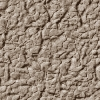
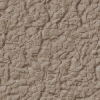
добавил лес ¯\_(ツ)_/¯

Changed region(s): [[0.0, 0.0, 1.0, 1.0], [0.0, 0.0, 0.03, 0.06], [0.36, 0.72, 0.39, 0.75]]

diff --git a/src/static/field/js/Map/CreateMap.js b/src/static/field/js/Map/CreateMap.js
@@ -18,15 +18,19 @@ function CreateMap() {
                 var object;
 
                 if (game.map.OneLayerMap[x][y].texture_object === "terrain_1") {
-                    object = gameObjectCreate(x, y, game.map.OneLayerMap[x][y].texture_object, -0.33, 0.70, 45);
+                    object = gameObjectCreate(x, y, game.map.OneLayerMap[x][y].texture_object, 0, 0.2, -0.33, 0.70, 45);
                 }
 
                 if (game.map.OneLayerMap[x][y].texture_object === "terrain_2") {
-                    object = gameObjectCreate(x, y, game.map.OneLayerMap[x][y].texture_object, -0.42, 0.75, 45);
+                    object = gameObjectCreate(x, y, game.map.OneLayerMap[x][y].texture_object, 0, 0.2, -0.42, 0.75, 45);
+                }
+
+                if (game.map.OneLayerMap[x][y].texture_object === "terrain_3") {
+                    object = gameObjectCreate(x, y, game.map.OneLayerMap[x][y].texture_object, 0, 0, -0.5, 0.8, 45);
                 }
 
                 if (game.map.OneLayerMap[x][y].texture_object === "wall") {
-                    object = gameObjectCreate(x, y, game.map.OneLayerMap[x][y].texture_object, -0.1, 0.35, 10);
+                    object = gameObjectCreate(x, y, game.map.OneLayerMap[x][y].texture_object, 0, 0.2, -0.1, 0.35, 10);
                 }
 
                 if (game.map.OneLayerMap[x][y].texture_object === "crater") {
@@ -48,7 +52,7 @@ function CreateMap() {
     }
 }
 
-function gameObjectCreate(x, y, texture, ShadowOffsetX, ShadowOffsetY, angle) {
+function gameObjectCreate(x, y, texture, spriteAnchorX, spriteAnchorY, ShadowOffsetX, ShadowOffsetY, angle) {
 
 
     var shadow = game.floorObjectLayer.create((x * game.tileSize), (y * game.tileSize) + game.shadowYOffset, texture);
@@ -65,7 +69,7 @@ function gameObjectCreate(x, y, texture, ShadowOffsetX, ShadowOffsetY, angle) {
     object.inputEnabled = true;
     object.events.onInputOut.add(TipOff);
     object.events.onInputDown.add(RemoveSelect);
-    object.anchor.setTo(0, 0.2); // todo подгружать спрайт от невидимой границы
+    object.anchor.setTo(spriteAnchorX, spriteAnchorY); // todo подгружать спрайт от невидимой границы
 
     shadow.inputEnabled = true;
     object.input.pixelPerfectOver = true;

diff --git a/src/static/field/js/Map/SelectZone/PlaceCoordinate.js b/src/static/field/js/Map/SelectZone/PlaceCoordinate.js
@@ -22,6 +22,7 @@ function SelectCoordinateUnitCreate(jsonMessage) {
                     selectSprite.events.onInputDown.add(SelectPlaceCoordinate, selectSprite);
                     selectSprite.events.onInputOver.add(animatePlaceCoordinate, selectSprite);
                     selectSprite.events.onInputOut.add(stopAnimateCoordinate, selectSprite);
+                    selectSprite.input.priorityID = 1; // утсанавливает повышеный приоритет среди спрайтов на которых мышь
 
                     game.map.selectSprites.push(selectSprite);
                 }

diff --git a/src/static/field/js/Map/SelectZone/MoveCoordinate.js b/src/static/field/js/Map/SelectZone/MoveCoordinate.js
@@ -27,6 +27,7 @@ function SelectMoveCoordinateCreate(jsonMessage) {
                     selectSprite.events.onInputDown.add(SelectMoveCoordinate, selectSprite);
                     selectSprite.events.onInputOver.add(animateMoveCoordinate, selectSprite);
                     selectSprite.events.onInputOut.add(stopAnimateCoordinate, selectSprite);
+                    selectSprite.input.priorityID = 1; // утсанавливает повышеный приоритет среди спрайтов на которых мышь
 
                     game.map.selectSprites.push(selectSprite);
                 }

diff --git a/src/static/field/js/Game/Preload.js b/src/static/field/js/Game/Preload.js
@@ -46,6 +46,7 @@ function preload() {
     game.load.image('floor', 'http://' + window.location.host + '/assets/floor.jpg');
     game.load.image('terrain_1', 'http://' + window.location.host + '/assets/tree1.png');
     game.load.image('terrain_2', 'http://' + window.location.host + '/assets/tree2.png');
+    game.load.image('terrain_3', 'http://' + window.location.host + '/assets/tree3.png');
     game.load.image('crater', 'http://' + window.location.host + '/assets/crater.png');
 
     // fog
